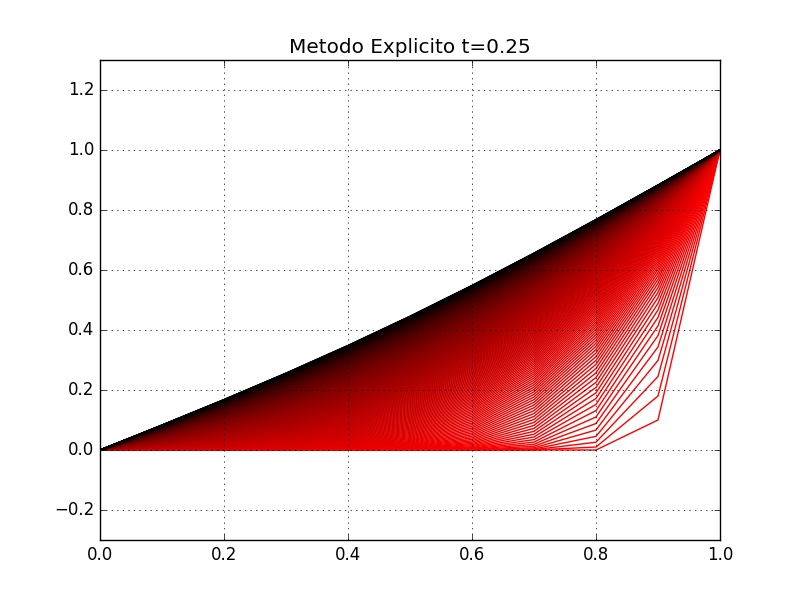
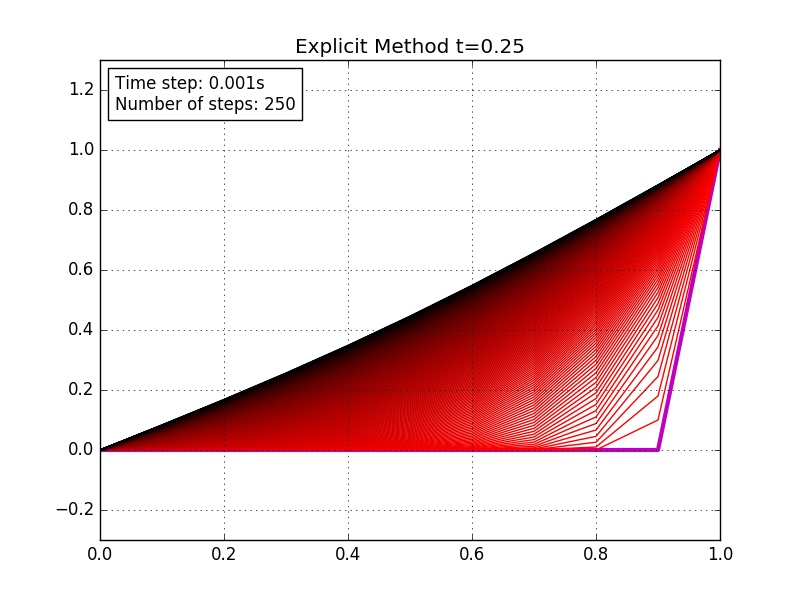
*Altered matrix creation, from 4 lines to 3 -Added simultaneous solving support, use "e" or "i" or both as argument -Added time step legend -Added Implicit method results -Current method status: --Explicit: working --Implicit: working --Permanent: working (but without support) -Changed working varia

diff --git a/df.py b/df.py
@@ -7,6 +7,7 @@ import sys
 import os
 import math
 import matplotlib.pyplot as plt
+from matplotlib.offsetbox import AnchoredText
 
 def diferencasfinitaspermanente(X,MRE,k,Q,T_0,T_L,dT_0,dT_L):
 	#MATRIZ DE SOLUÇÃO
@@ -59,12 +60,12 @@ def diferencasfinitasimplicito(X ,MRE ,k ,Q ,Delta_t ,T_inicial ,dT_0 ,dT_L):
 	numpnts = numele + 1 #NÚMERO DE PONTOS PARA SEREM CALCULADOS OS VALORES DA FUNÇÃO
 	#----------------------MATRIZ GERAL (-K+M)*a = f--------------------------------------------------------------------
 	matriz = np.zeros((numpnts,numpnts))
-	matrizf = Q
+	matrizf = Q + T_inicial*1.0/Delta_t
 	for elem in MRE:
-		matriz[elem[0]][elem[0]] -= k*1.0/(X[elem[0]]-X[elem[1]])**2		#\
-		matriz[elem[1]][elem[0]] -= -k*1.0/(X[elem[0]]-X[elem[1]])**2		# \  MATRIZ	    [ -2  1  0 ...]
-		matriz[elem[0]][elem[1]] -= -k*1.0/(X[elem[0]]-X[elem[1]])**2		# /        =  k [  1 -2  1 ...]
-		matriz[elem[1]][elem[1]] -= k*1.0/(X[elem[0]]-X[elem[1]])**2		#/				[  0  1 -2 ...]
+		matriz[elem[0]][elem[0]] = 2*k*1.0/(X[elem[0]]-X[elem[1]])**2 + 1.0/Delta_t		#\  MATRIZ	  [2k/x+1/t  -k/x     0    ...]
+		matriz[elem[1]][elem[0]] = -k*1.0/(X[elem[0]]-X[elem[1]])**2					# \        =  [-k/x    2k/x+1/t  -k/x  ...]
+		matriz[elem[0]][elem[1]] = -k*1.0/(X[elem[0]]-X[elem[1]])**2					# /			  [  0     -k/x   2k/x+1/t ...]
+		# matriz[elem[1]][elem[1]] -= k*1.0/(X[elem[0]]-X[elem[1]])**2					#/
 
 	# T(0) = T_0 (CONDIÇÃO DE CONTORNO DE DIRICHLET)
 	index = np.where(X==0)[0][0]
@@ -88,24 +89,23 @@ def diferencasfinitasimplicito(X ,MRE ,k ,Q ,Delta_t ,T_inicial ,dT_0 ,dT_L):
 		matriz[index][i] = 0 							#{	ELIMINAÇÃO DA LINHA
 		matriz[i][index] = 0 							#{	ELIMINAÇÃO DA COLUNA
 
-	print matriz
-	print matrizf
+	# print matriz
+	# print matrizf
 	resp = np.linalg.solve(matriz,matrizf)
-	print resp
+	# print resp
 	return resp
 
 def diferencasfinitasexplicito(X, MRE, k, Q, Delta_t, T_inicial, dT_0, dT_L):
 	L = max(X)
 	numpnts = len(X) #NÚMERO DE PONTOS PARA SEREM CALCULADOS OS VALORES DA FUNÇÃO
 	resp = np.zeros(numpnts)
-	resp[0] = T_0
-	resp[-1] = T_L
+	resp[0] = T_inicial[0]
+	resp[-1] = T_inicial[-1]
 	for i in range(1,numpnts-1):
 		resp[i] = Delta_t*(Q[i] + (T_inicial[i-1]-2*T_inicial[i]+T_inicial[i+1])/((X[i]-X[i-1])*(X[i+1]-X[i])) + T_inicial[i]/Delta_t) 
-
 	return resp
 
-def grafico(x, y, color, title):
+def grafico(x, y, color, title=None):
 	#----------------------------------------GRÁFICO-----------------------------------------------------------
 	plt.plot(np.array(x), np.array(y), color=color)
 	maior = max(y)
@@ -115,12 +115,18 @@ def grafico(x, y, color, title):
 	aux = 0.1*abs(maior-menor)
 	axes.set_ylim([menor-3*aux, 3*aux+maior])
 	plt.grid(True)
-	plt.title(title)
+	if title:
+		plt.title(title)
 	# plt.savefig("img/respfinal.jpg")
 	# plt.show()
 	return
 
 def main():
+	args = sys.argv[1:]
+	if ("e" not in args) or ("i" not in args):
+		# DEFALT CHOICE		
+		trigger = "ei"
+
 	with open("malha.txt", "r") as arq:
 		X = []
 		for line in arq:
@@ -138,23 +144,40 @@ def main():
 	T_inicial = np.zeros(len(X))
 	T_inicial[0] = 0.0
 	T_inicial[-1] = 1.0
-	t_intervalos = np.zeros(250) + 0.001
 	print "X: ",X
 	print "MRE: ",MRE
 	print "Q: ",Q
 
-	t_acumulado = 0.0
-	# for i in range(len(t_intervalos)):
-	# 	t_acumulado += t_intervalos[i]
-	# 	T_inicial = diferencasfinitasexplicito(X, MRE, 1.0, Q, t_intervalos[i], T_inicial, None, None)
-	# 	grafico(X, T_inicial, (1-i*1.0/len(t_intervalos),0,0), "Metodo Explicito t={}".format(t_acumulado))
-	# 	# plt.savefig("img/explicito_{}.jpg".format(i))
-	# 	# plt.show()
-	# plt.savefig("img/explicito_t={}s.jpg".format(t_acumulado))
+	#Solução Inicial
+	plt.plot(X, T_inicial, color="m", linewidth=3)
+
+	if "e" in trigger.lower():
+		t_intervalos = np.zeros(250) + 0.001
+		t_acumulado = 0.0
+		T_atual = np.copy(T_inicial)
+		for i in range(len(t_intervalos)):
+			t_acumulado += t_intervalos[i]
+			T_atual = diferencasfinitasexplicito(X, MRE, 1.0, Q, t_intervalos[i], T_atual, None, None)
+			grafico(X, T_atual, (1-i*1.0/len(t_intervalos),0,0), "Explicit Method t={}".format(t_acumulado))
+			# plt.savefig("img/explicito_{}.jpg".format(i))
+		axes = plt.gca()
+		axes.add_artist(AnchoredText("Time step: {0}s\nNumber of steps: {1}".format(np.mean(t_intervalos), len(t_intervalos)), loc=2))
+		# plt.savefig("img/explicito_t={}s.jpg".format(t_acumulado))
+		plt.show()
 	
-	T_inicial = diferencasfinitasimplicito(X, MRE, 1.0, Q, t_intervalos, T_inicial, None, None)
-	grafico(X, T_inicial, "b", "Metodo Teste")
-	plt.show()
+	if "i" in trigger.lower():
+		t_intervalos = np.zeros(10) + 0.025
+		t_acumulado = 0.0
+		T_atual = np.copy(T_inicial)
+		for i in range(len(t_intervalos)):
+			t_acumulado += t_intervalos[i]
+			T_atual = diferencasfinitasimplicito(X, MRE, 1.0, Q, t_intervalos[i], T_atual, None, None)
+			grafico(X, T_atual, (0,0,1-i*1.0/len(t_intervalos)), "Implicit  Method t={}".format(t_acumulado))
+			# plt.savefig("img/explicito_{}.jpg".format(i))
+		axes = plt.gca()
+		axes.add_artist(AnchoredText("Time step: {0}s\nNumber of steps: {1}".format(np.mean(t_intervalos), len(t_intervalos)), loc=2))
+		# plt.savefig("img/implicito_t={}s.jpg".format(t_acumulado))
+		plt.show()
 	return
 
 if __name__ == '__main__':
